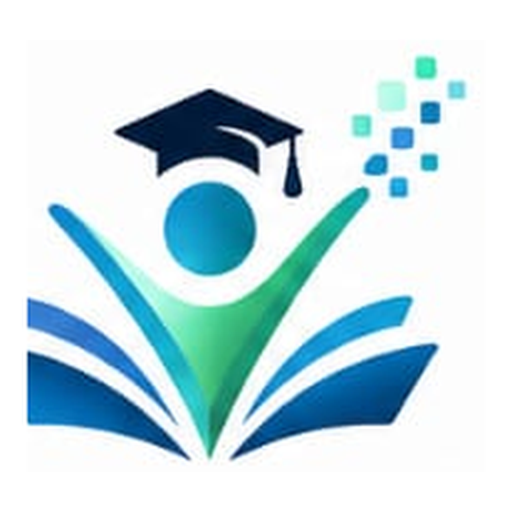
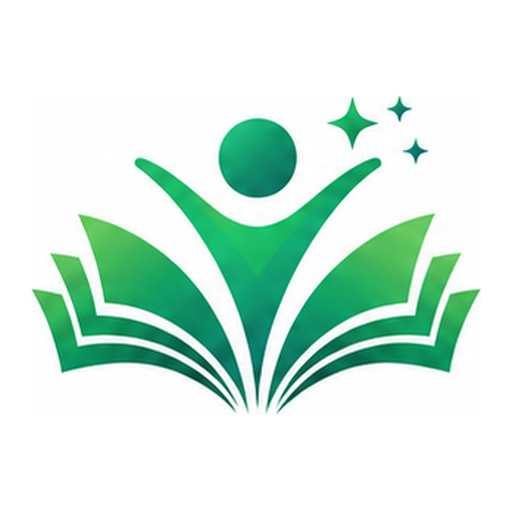
Apply THUTOra brand specs: palette, Poppins, product marks, wordmark (ADR-040)
- Tokens for every brand colour (navy #0F1D3D + primary/light/dark per
  product); navy is now the app background; amber warning so it never
  reads as CONNECT orange
- Poppins bundled via @fontsource (offline, no Google request)
- New LEARN/TEACH/CONNECT/INSIGHTS marks from the brand sheet; app icons
  from the LEARN mark
- Wordmark component: mark + THUTO + "ra" in product colour + badge, on
  all four product headers and the login screen

Claude-Session: https://claude.ai/code/session_01V4iotE4RM5RD2iHgyEwi1R

diff --git a/frontend/src/styles/tokens.css b/frontend/src/styles/tokens.css
@@ -1,19 +1,11 @@
 /*
   THUTOra design tokens.
 
-  UPDATED 17 Nov 2026 (ADR-034): one accent colour per product on the
-  original dark navy background (Siya kept the dark background after
-  trying the light one). Each product's colour is used for icon strokes
-  on a soft tint, product badges, the active-tab underline and primary
-  buttons, not for large areas.
-
-    LEARN    green   #22C55E  (students)
-    TEACH    purple  #A78BFA  (teachers, school admin)
-    INSIGHTS blue    #60A5FA  (analytics: the Progress tab today)
-    CONNECT  orange  #FB923C  (parents, future)
-
-  These are the lighter shades of the mockup's colours, so strokes and
-  text read on navy; fills carry dark text (--color-text-on-accent).
+  UPDATED 19 Nov 2026 (ADR-040): the official THUTOra brand specs --
+  navy #0F1D3D, Poppins, and a primary/light/dark palette per product:
+    LEARN green, TEACH purple, CONNECT orange, INSIGHTS blue.
+  The app keeps its dark navy background (ADR-034), so colours that must
+  read on navy use the Light shade (Primary for CONNECT).
 
   Components reference the --color-* aliases. A product's area sets
   data-product="learn|teach|insights|connect" on its root element, which
@@ -21,33 +13,50 @@
 */
 
 :root {
-  /* Raw brand tokens */
-  --thutora-navy: #0D1B2A;
-  --thutora-offwhite: #F4F6FA;
+  /* Global brand colours (THUTOra brand specs, 19 Nov 2026) */
+  --thutora-navy: #0F1D3D; /* RGB(15, 29, 61) -- primary */
+  --thutora-white: #FFFFFF;
+  --thutora-font: "Poppins", -apple-system, "Segoe UI", Roboto, sans-serif;
 
-  /* Product colours, tuned for the dark navy background: bright enough
-     to read as icon strokes and text on navy, with dark text on fills. */
-  --product-learn: #22C55E;
+  /* Product palettes, exactly as specified: primary / light / dark */
+  --learn-primary: #16A34A;    /* RGB(22, 163, 74) */
+  --learn-light: #22C55E;      /* RGB(34, 197, 94) */
+  --learn-dark: #15803D;       /* RGB(21, 128, 61) */
+  --teach-primary: #7C3AED;    /* RGB(124, 58, 237) */
+  --teach-light: #A78BFA;      /* RGB(167, 139, 250) */
+  --teach-dark: #5B21B6;       /* RGB(91, 33, 182) */
+  --connect-primary: #F97316;  /* RGB(249, 115, 22) */
+  --connect-light: #FDBA74;    /* RGB(253, 186, 116) */
+  --connect-dark: #EA580C;     /* RGB(234, 88, 12) */
+  --insights-primary: #2B78DB; /* RGB(40, 120, 219) */
+  --insights-light: #60A5FA;   /* RGB(96, 165, 250) */
+  --insights-dark: #1D4EDB;    /* RGB(29, 78, 216) */
+
+  /* How each product colour is used on the navy app background.
+     Text, icon strokes and fills use a shade that reads on navy (the
+     Light shade, or Primary for CONNECT, whose Light is too pale for
+     text); fills carry navy text. */
+  --product-learn: var(--learn-light);
   --product-learn-hover: #4ADE80;
   --product-learn-tint: rgba(34, 197, 94, 0.16);
-  --product-teach: #A78BFA;
+  --product-teach: var(--teach-light);
   --product-teach-hover: #C4B5FD;
   --product-teach-tint: rgba(167, 139, 250, 0.18);
-  --product-insights: #60A5FA;
+  --product-insights: var(--insights-light);
   --product-insights-hover: #93C5FD;
   --product-insights-tint: rgba(96, 165, 250, 0.18);
-  --product-connect: #FB923C;
-  --product-connect-hover: #FDBA74;
-  --product-connect-tint: rgba(251, 146, 60, 0.18);
+  --product-connect: var(--connect-primary);
+  --product-connect-hover: var(--connect-light);
+  --product-connect-tint: rgba(249, 115, 22, 0.18);
 
-  /* Semantic aliases: the original dark navy surfaces (ADR-012) */
+  /* Semantic aliases: navy app surfaces built from the brand navy */
   --color-background: var(--thutora-navy);
-  --color-surface: #11223A;
-  --color-surface-2: #16304F;
-  --color-border: #1E3350;
-  --color-text: var(--thutora-offwhite);
-  --color-text-muted: #9FB0C3;
-  --color-text-on-accent: #04140F;
+  --color-surface: #16274D;
+  --color-surface-2: #1C315E;
+  --color-border: #263D6E;
+  --color-text: #F4F6FA;
+  --color-text-muted: #A3B1C6;
+  --color-text-on-accent: var(--thutora-navy);
 
   /* Default accent = LEARN (also used on the login screen) */
   --color-accent: var(--product-learn);
@@ -58,8 +67,8 @@
   /* Status colours, always shipped with a word label */
   --color-success: #4ADE80;
   --color-success-tint: rgba(74, 222, 128, 0.15);
-  --color-warning: #FF9F1C;
-  --color-warning-tint: rgba(255, 159, 28, 0.15);
+  --color-warning: #FBBF24;
+  --color-warning-tint: rgba(251, 191, 36, 0.15);
   --color-danger: #F87171;
   --color-danger-tint: rgba(248, 113, 113, 0.15);
 

diff --git a/frontend/src/styles/chat.css b/frontend/src/styles/chat.css
@@ -12,7 +12,7 @@ body {
   margin: 0;
   background: var(--color-background);
   color: var(--color-text);
-  font-family: -apple-system, "Segoe UI", Roboto, sans-serif;
+  font-family: var(--thutora-font);
 }
 
 /* NEW 14 Nov 2026: subject/topic sidebar layout, replacing the old
@@ -1940,7 +1940,7 @@ body {
 .reader__epub h1,
 .reader__epub h2,
 .reader__epub h3 {
-  color: #0d1b2a;
+  color: var(--thutora-navy);
   margin-top: 0;
 }
 
@@ -2420,4 +2420,67 @@ button.consent-badge {
   .insights-schools {
     grid-column: auto;
   }
+}
+
+/* NEW 19 Nov 2026 (ADR-040): THUTOra wordmark -- THUTO in white on navy,
+   "ra" in the product colour, Poppins Bold/SemiBold per the brand specs */
+.wordmark {
+  display: flex;
+  align-items: center;
+  gap: 0.6rem;
+}
+.wordmark__mark {
+  width: 40px;
+  height: 40px;
+  border-radius: 10px;
+  display: block;
+  flex-shrink: 0;
+}
+.wordmark__text {
+  font-size: 1.45rem;
+  line-height: 1;
+  letter-spacing: 0.01em;
+}
+.wordmark__thuto {
+  font-weight: 700;
+  color: var(--color-text);
+}
+.wordmark__ra {
+  font-weight: 600;
+  color: var(--color-accent);
+}
+.wordmark--lg .wordmark__mark {
+  width: 52px;
+  height: 52px;
+  border-radius: 12px;
+}
+.wordmark--lg .wordmark__text {
+  font-size: 1.9rem;
+}
+.product-badge {
+  font-weight: 600;
+  letter-spacing: 0.14em;
+}
+.login-screen__brand {
+  flex-direction: column;
+  align-items: flex-start;
+  gap: 0.75rem;
+}
+.login-screen__products {
+  display: flex;
+  gap: 0.5rem;
+}
+.login-screen__products img {
+  width: 28px;
+  height: 28px;
+  border-radius: 7px;
+  opacity: 0.9;
+}
+
+/* ADR-040: form controls don't inherit the page font by default */
+button,
+input,
+select,
+textarea {
+  font-family: inherit;
 }

diff --git a/frontend/src/components/InsightsScreen.jsx b/frontend/src/components/InsightsScreen.jsx
@@ -11,6 +11,7 @@ import { ArrowLeft, LogOut, MapPinned, School as SchoolIcon, TrendingDown } from
 import { fetchInsightsOverview, fetchInsightsSchool, fetchInsightsScope } from "../api";
 import { ICON_BUTTON, ICON_NAV } from "./icons";
 import PrivacyNotice from "./PrivacyNotice";
+import Wordmark from "./Wordmark";
 
 // "Umgungundlovu" -> "Umgungundlovu District", but "Demo District" stays as is
 const withSuffix = (name, word) => (name.toLowerCase().endsWith(word.toLowerCase()) ? name : `${name} ${word}`);
@@ -118,11 +119,7 @@ export default function InsightsScreen({ auth, onLogout }) {
   return (
     <div className="admin-screen" data-product="insights">
       <header className="chat-screen__header">
-        <div className="chat-screen__brand">
-          <img src="/thutora-insights-logo.png" alt="" className="chat-screen__brand-logo" />
-          THUTOra
-          <span className="product-badge">INSIGHTS</span>
-        </div>
+        <Wordmark product="insights" />
         <div className="chat-screen__header-right">
           <div className="chat-screen__profile">
             <span className="chat-screen__profile-name">

diff --git a/frontend/src/components/Wordmark.jsx b/frontend/src/components/Wordmark.jsx
@@ -1,0 +1,25 @@
+/*
+ * NEW 19 Nov 2026 (ADR-040, THUTOra brand specs). The product wordmark:
+ * a product mark, "THUTO" in the base colour (white on the app's navy
+ * background, where navy text wouldn't show), "ra" in the product's accent
+ * colour, and the product name in the product colour.
+ */
+const MARKS = {
+  learn: "/thutora-learn-logo.png",
+  teach: "/thutora-teach-logo.png",
+  connect: "/thutora-connect-logo.png",
+  insights: "/thutora-insights-logo.png",
+};
+
+export default function Wordmark({ product, showProduct = true, size = "md" }) {
+  return (
+    <div className={`wordmark wordmark--${size}`} data-product={product}>
+      <img src={MARKS[product]} alt="" className="wordmark__mark" />
+      <span className="wordmark__text" aria-label={`THUTOra ${showProduct ? product.toUpperCase() : ""}`.trim()}>
+        <span className="wordmark__thuto">THUTO</span>
+        <span className="wordmark__ra">ra</span>
+      </span>
+      {showProduct && <span className="product-badge">{product.toUpperCase()}</span>}
+    </div>
+  );
+}

diff --git a/frontend/src/components/LoginScreen.jsx b/frontend/src/components/LoginScreen.jsx
@@ -23,6 +23,7 @@
 import { useEffect, useState } from "react";
 import { changePassword, fetchSchools, login } from "../api";
 import PrivacyNotice from "./PrivacyNotice";
+import Wordmark from "./Wordmark";
 
 export default function LoginScreen({ onLogin, notice }) {
   const [schools, setSchools] = useState([]);
@@ -115,10 +116,13 @@ export default function LoginScreen({ onLogin, notice }) {
 
   const brand = (
     <div className="login-screen__brand">
-      <img src="/thutora-logo.png" alt="" className="login-screen__brand-logo" />
-      <span>
-        THUTOra<span className="login-screen__brand-dot">.</span>
-      </span>
+      {/* ADR-040: one login for every product, so all four marks */}
+      <Wordmark product="learn" showProduct={false} size="lg" />
+      <div className="login-screen__products" aria-hidden="true">
+        {["learn", "teach", "connect", "insights"].map((p) => (
+          <img key={p} src={`/thutora-${p}-logo.png`} alt="" title={p.toUpperCase()} />
+        ))}
+      </div>
     </div>
   );
 

diff --git a/frontend/src/components/ChatScreen.jsx b/frontend/src/components/ChatScreen.jsx
@@ -47,6 +47,7 @@ import LibraryView from "./LibraryView";
 import LearnerSettings from "./LearnerSettings"; // NEW 17 Nov 2026 (ADR-032, e-book library)
 import { BookOpen, ClipboardList, LogOut, MessageCircle, Paperclip } from "lucide-react";
 import { ICON_BUTTON, ICON_NAV } from "./icons";
+import Wordmark from "./Wordmark";
 
 function topicNameById(topics, id) {
   const topic = topics.find((t) => t.id === id);
@@ -533,11 +534,7 @@ export default function ChatScreen({ auth, onLogout, onLearnerChange }) {
 
       <div className="chat-screen">
       <header className="chat-screen__header">
-        <div className="chat-screen__brand">
-          <img src="/thutora-learn-logo.png" alt="" className="chat-screen__brand-logo" />
-          THUTOra
-          <span className="product-badge">LEARN</span>
-        </div>
+        <Wordmark product="learn" />
         <div className="chat-screen__header-right">
           <nav className="chat-screen__view-toggle">
             <button

diff --git a/frontend/src/components/TeacherAdminScreen.jsx b/frontend/src/components/TeacherAdminScreen.jsx
@@ -25,6 +25,7 @@ import LearnerPrivacyPanel from "./LearnerPrivacyPanel";
 import ParentAccessPanel from "./ParentAccessPanel";
 import { ICON_BUTTON, ICON_NAV } from "./icons";
 import SchoolPanel from "./SchoolPanel";
+import Wordmark from "./Wordmark";
 import {
   bulkCreateStudents,
   createAssignment,
@@ -125,11 +126,7 @@ export default function TeacherAdminScreen({ auth, onLogout }) {
   return (
     <div className="admin-screen" data-product="teach">
       <header className="chat-screen__header">
-        <div className="chat-screen__brand">
-          <img src="/thutora-teach-logo.png" alt="" className="chat-screen__brand-logo" />
-          THUTOra
-          <span className="product-badge">TEACH</span>
-        </div>
+        <Wordmark product="teach" />
         <div className="chat-screen__header-right">
           <div className="chat-screen__profile">
             <span className="chat-screen__profile-name">

diff --git a/frontend/src/components/ParentScreen.jsx b/frontend/src/components/ParentScreen.jsx
@@ -17,6 +17,7 @@ import {
 } from "../api";
 import { ICON_BUTTON, ICON_NAV } from "./icons";
 import PrivacyNotice from "./PrivacyNotice";
+import Wordmark from "./Wordmark";
 
 const LANG_KEY = "thutora_parent_language";
 
@@ -123,11 +124,7 @@ export default function ParentScreen({ auth, onLogout }) {
   return (
     <div className="admin-screen" data-product="connect">
       <header className="chat-screen__header">
-        <div className="chat-screen__brand">
-          <img src="/thutora-connect-logo.png" alt="" className="chat-screen__brand-logo" />
-          THUTOra
-          <span className="product-badge">CONNECT</span>
-        </div>
+        <Wordmark product="connect" />
         <div className="chat-screen__header-right">
           <div className="chat-screen__profile">
             <span className="chat-screen__profile-name">{auth.school?.name}</span>

diff --git a/frontend/src/main.jsx b/frontend/src/main.jsx
@@ -3,6 +3,13 @@
 import { StrictMode } from "react";
 import { createRoot } from "react-dom/client";
 import "katex/dist/katex.min.css";
+// ADR-040: Poppins, the THUTOra brand typeface -- bundled with the app (not
+// loaded from Google), so it works offline and costs learners no extra data
+// after the first visit.
+import "@fontsource/poppins/400.css";
+import "@fontsource/poppins/500.css";
+import "@fontsource/poppins/600.css";
+import "@fontsource/poppins/700.css";
 import App from "./App.jsx";
 
 createRoot(document.getElementById("root")).render(

diff --git a/frontend/index.html b/frontend/index.html
@@ -3,7 +3,7 @@
   <head>
     <meta charset="UTF-8" />
     <meta name="viewport" content="width=device-width, initial-scale=1.0" />
-    <meta name="theme-color" content="#0D1B2A" />
+    <meta name="theme-color" content="#0F1D3D" />
     <meta name="description" content="AI CAPS tutor for South African learners and teachers" />
     <link rel="manifest" href="/manifest.webmanifest" />
     <link rel="icon" type="image/png" href="/icon-192.png" />

diff --git a/docs/ADR-040-brand-specs.md b/docs/ADR-040-brand-specs.md
@@ -1,0 +1,28 @@
+# ADR-040: THUTOra brand specs in the app
+
+**Date:** 19 Nov 2026 · **Status:** Accepted (Siya's "THUTOra Product Family — Brand Specs")
+
+## Decision
+- **Colours:** every value from the spec is a token in `tokens.css`:
+  navy `#0F1D3D` (now the app background), white, and primary/light/dark for
+  LEARN `#16A34A/#22C55E/#15803D`, TEACH `#7C3AED/#A78BFA/#5B21B6`,
+  CONNECT `#F97316/#FDBA74/#EA580C`, INSIGHTS `#2B78DB/#60A5FA/#1D4EDB`.
+  On the navy background, text, icon strokes and buttons use the Light shade
+  (Primary for CONNECT, whose Light is too pale for text), with navy text on
+  coloured buttons and badges. The dark background from ADR-034 stays.
+- **Warning status** moves from orange to amber `#FBBF24` so "Watch"/"due"
+  warnings never look like CONNECT orange.
+- **Marks:** the four product marks were cut from the brand sheet into
+  `public/thutora-{learn,teach,connect,insights}-logo.png` (160px, on a white
+  rounded tile, as designed). App/install icons use the LEARN mark.
+- **Wordmark** (`Wordmark.jsx`): mark + "THUTO" (Poppins Bold; white instead
+  of navy, since navy text is invisible on the navy app) + "ra" (SemiBold, in
+  the product colour) + the product badge. The login screen shows the
+  LEARN-coloured wordmark plus all four marks, since every product shares it.
+- **Typography:** Poppins 400/500/600/700, bundled via `@fontsource/poppins`
+  (no Google Fonts request: works offline, no extra data, no third-party call).
+
+## Follow-up
+The marks are raster cuts from the spec sheet. When the designer supplies
+SVG or 1024px PNG originals, replace the files in `frontend/public/` (same
+names) for sharper install icons.

diff --git a/docs/BUILD_LOG.md b/docs/BUILD_LOG.md
@@ -3118,3 +3118,11 @@ Checked: 249 backend tests, 6 frontend tests, eslint, build, migrations, HTTP
 runs for each phase, screenshots of Today, Students, Settings, parent view,
 notices and INSIGHTS. Live Claude translation and prompt caching need a real
 API key to confirm (the sandbox has none; translation fell back to English).
+
+## 19 Nov 2026 — Brand specs applied (ADR-040)
+
+Exact palette tokens for all four products and navy #0F1D3D; Poppins bundled;
+new product marks and app icons cut from the brand sheet; THUTO/ra wordmark
+component on every header and the login screen. **Needs `npm install` in
+`frontend/`** (@fontsource/poppins). Checked: lint, build, 6 frontend tests,
+screenshots of login, LEARN, TEACH, CONNECT and INSIGHTS headers.
